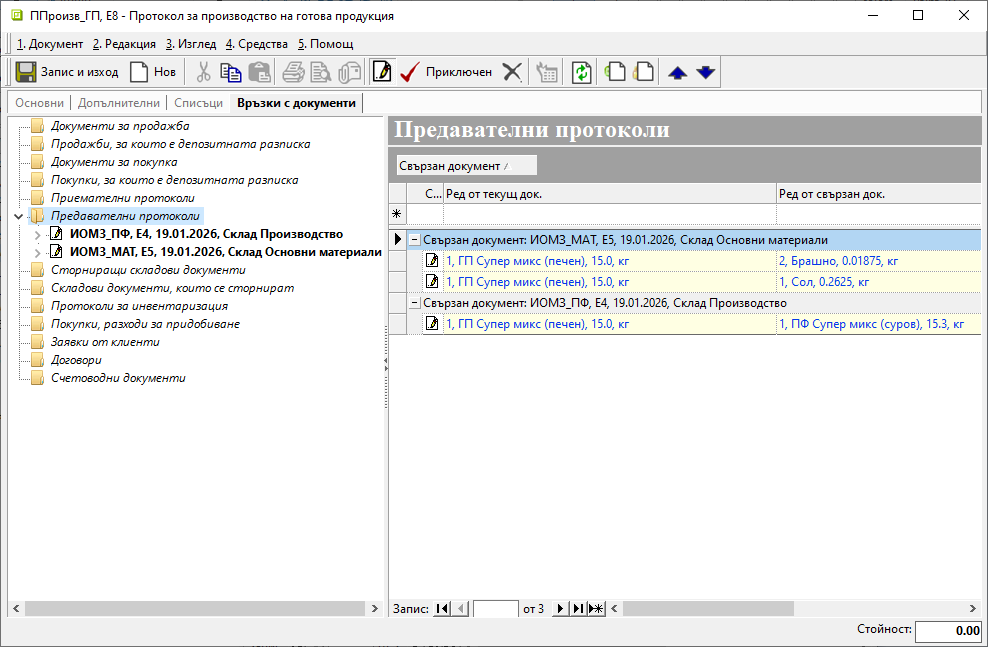
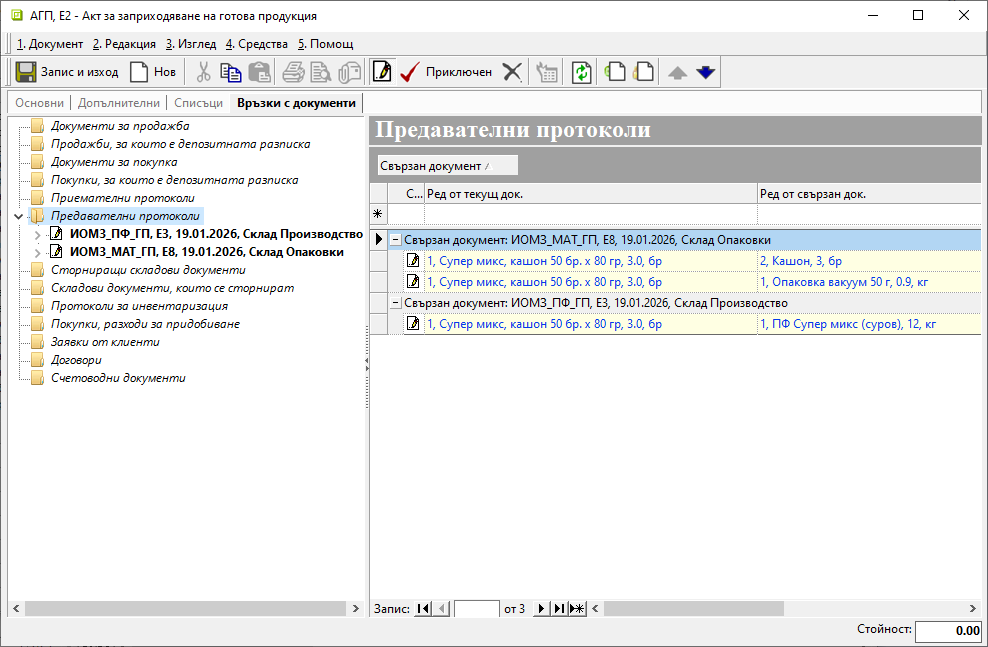
Редактиране

diff --git a/guide/erp/005-how-to/017-manufacturing.md b/guide/erp/005-how-to/017-manufacturing.md
@@ -112,41 +112,24 @@
 Трябва да завършите процеса по производство на полуфабрикат.  
 Навигирате се до **АПФ** и приключвате документа със счетоводно записване.  
 
-> Валидирането на акта за заприходяване отразява завършен междинен етап от производството. Наличността на полуфабриката в склада е увеличена.  
+> Валидирането на **АПФ** отразява завършен междинен етап от производството. Наличността на полуфабриката в склада е увеличена.  
 
 ### Готова продукция  
 
-Реализирате следващия етап на производствената поръчка с протокол за производство на готова продукция. Документът се създава по познатия начин. Разликата е в реквизит **Док. тип** - избирате настроения за операцията **ППроизв_ГП**.  
+Следващия етап на производствената поръчка реализирате с **АГП**-*Акт за заприходяване на готова продукция*.  
+Документът се създава по познатия начин. Разликата е в реквизит **Док. тип** - избирате настроения за операцията **АГП**.  
 
 ![](917-manufacturing8.png){ class=align-center w=15cm }
 
-Стартирате помощника **Генериране през рецепта**. Спрямо настройките в рецептата на участващите продукти ще се създадат един или няколко свързани **ИОМЗ**.   
-
-Документите се приключват в познатия ред.  
-Първи се валидират разходните складови документи - **ИОМЗ_ПФ**, **ИОМЗ_МАТ** или друго.  
+Стартирате помощника **Генериране през рецепта**. Спрямо настройките в рецептата на произвеждания продукт се създадат един или няколко свързани **ИОМЗ**.   
 
 ![](917-manufacturing9.png){ class=align-center w=15cm }
 
-Следва валидирането на протокола за производство - **ППроизв_ГП**. С това се формира себестойността на готовата продукция.   
-
-> **ППроизв_ГП** придобива стойност, която е сбор от стойностите на всички свързани **ИОМЗ**.  
-
-### Пакетиране
-
-Производствената поръчка ще бъде финализирана с пакетиране на готовата продукция.  
-
-Следвате същите стъпки при създаване на документи - протокол за производство, генериране на свързано искане за МЗ, валидиране на ИОМЗ и на протокола.    
-
-В нов складов документ избирате настроения за целта тип **ППроизв_П**.  
-Преминавате през меню **Средства » Генериране през рецепта** за създаване на искане за МЗ.   
-
-![](917-manufacturing10.png){ class=align-center w=15cm }
-
-Документите се приключват в последователност от разходен към приходен складов документ. Така системата попълва среднопретеглените цени в разходните и прехвърля сумата в стойността на приходните документи.  
+С валидирането на **АГП** се формира себестойността на готовата продукция като сбор от стойностите на свързаните **ИОМЗ**.  
 
 > Уверете се, че сте валидирали всички документи, касаещи производствения процес.  
 
-![](917-manufacturing11.png){ class=align-center w=15cm }
+Документите се приключват в последователност от разходен към приходен складов документ. Така системата автоматично попълва среднопретеглените цени в разходните, с което формира стойност в приходните документи.  
 
 ## **Свързани статии**
 
